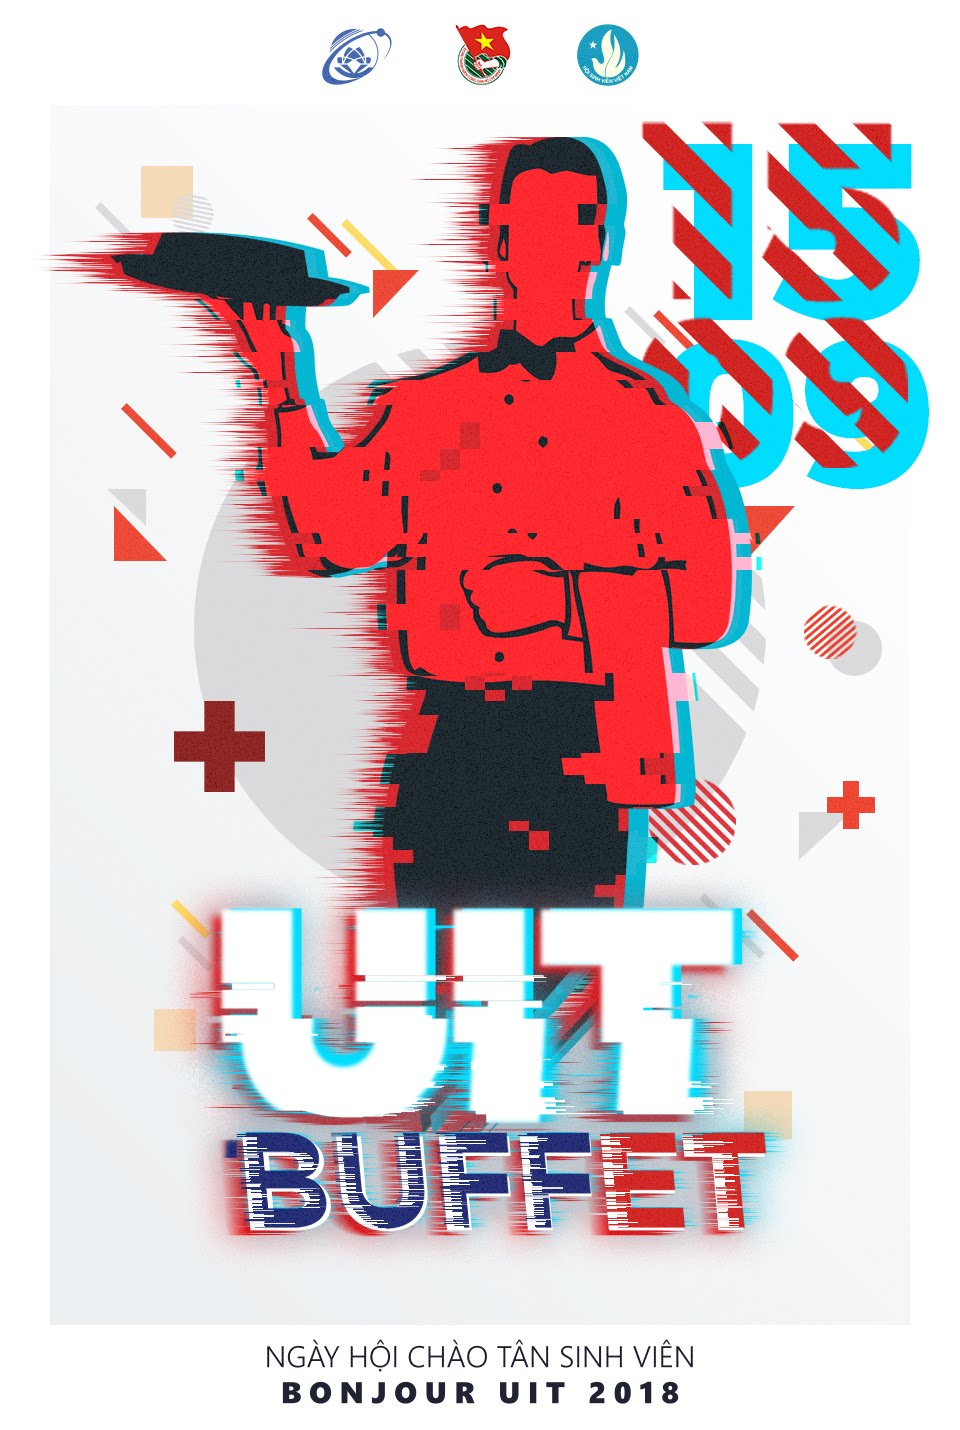
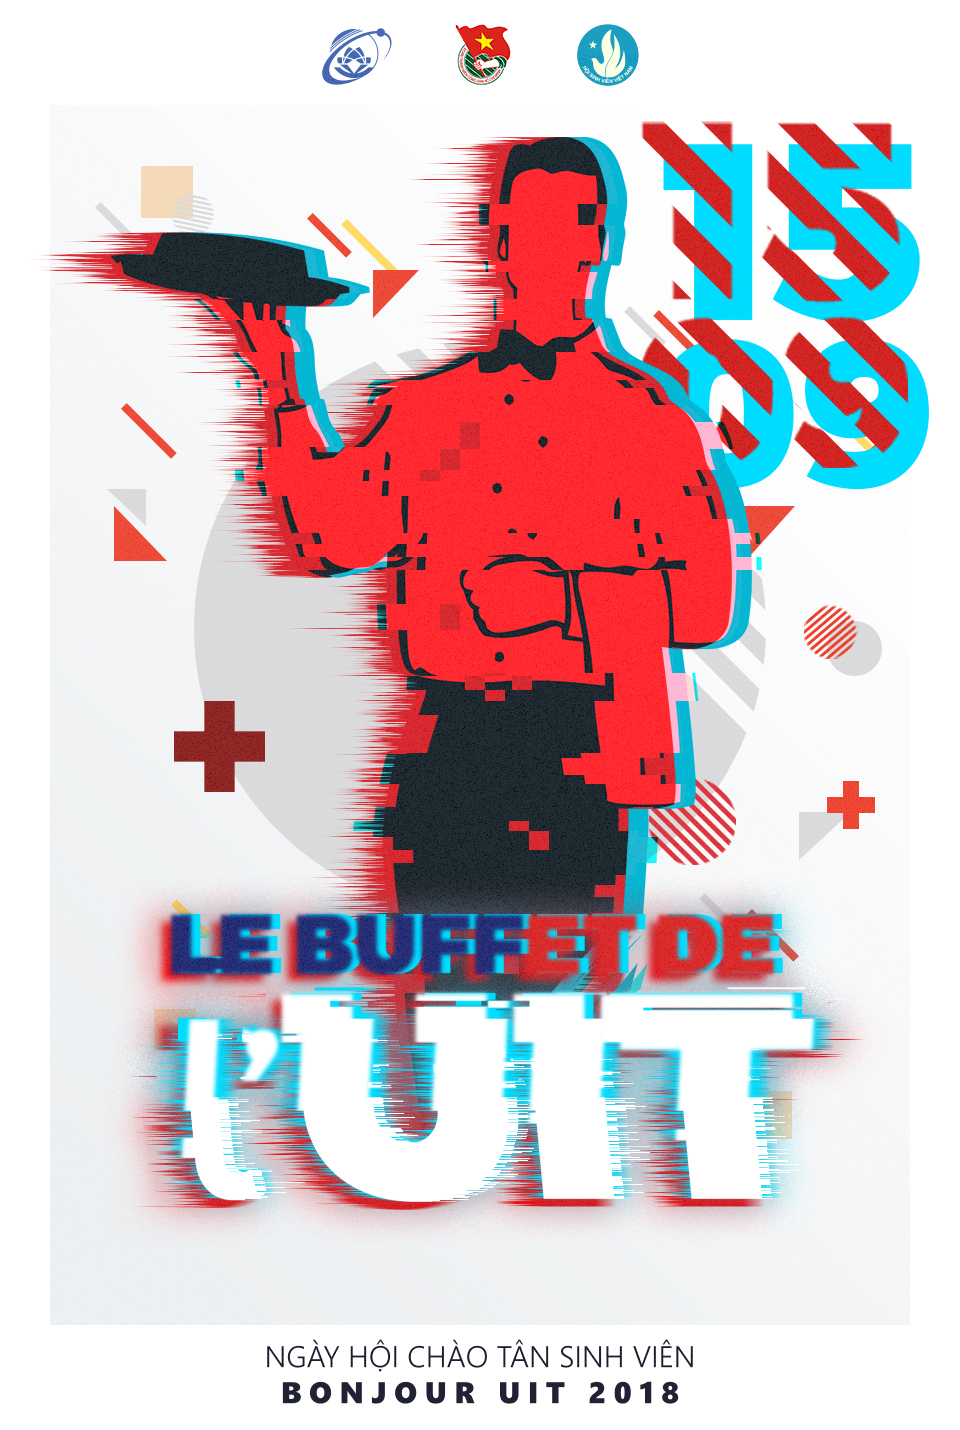
Update poster

diff --git a/bonjour2018.html b/bonjour2018.html
@@ -209,7 +209,7 @@
             <img src="./bonjour/images/bonjour-1.jpg" alt="" />
           </div>
           <div class="architecture-details bg-bonjour-blue text-left padding-fifteen sm-padding-eleven center-col md-width-90 xs-width-90">
-            <span class="text-large font-weight-600 letter-spacing-1 alt-font white-text text-uppercase display-block">UIT MUSIQUE FESTIVAL</span>
+            <span class="text-large font-weight-600 letter-spacing-1 alt-font white-text text-uppercase display-block">FÊTE MUSICALE DE L'UIT</span>
             <span class="text-small letter-spacing-2 text-uppercase alt-font white-text">Đại nhạc hội dành riêng cho các tính đồ âm nhạc tại UIT</span>
             <p class="white-text margin-fifteen no-margin-lr width-90 md-margin-three md-no-margin-lr">
               Mang chảo, mang bàn phím cùng nhau quẩy một trận ra trò nào 500 anh em ơi!
@@ -234,7 +234,7 @@
           </div>
           <div class="architecture-details bg-bonjour-blue text-left padding-fifteen sm-padding-eleven center-col md-width-90 xs-width-90">
             <span class="text-large font-weight-600 letter-spacing-1 alt-font white-text text-uppercase display-block">
-              UIT BUFFET
+              LE BUFFET DE L'UIT
             </span>
             <span class="text-small letter-spacing-2 text-uppercase alt-font white-text">LỄ HỘI ẨM THỰC PHÁP</span>
             <p class="white-text margin-fifteen no-margin-lr width-90 md-margin-three md-no-margin-lr">
@@ -566,7 +566,7 @@
               <div class="pricing-features">
                 <ul>
                   <li>1 người</li>
-                  <li>FÊTE MUSICALE DE l'UIT</li>
+                  <li>FÊTE MUSICALE DE L'UIT</li>
                   <li>DJ CONCERT</li>
                 </ul>
               </div>
@@ -591,7 +591,7 @@
               <div class="pricing-features">
                 <ul>
                   <li>5 người</li>
-                  <li>FÊTE MUSICALE DE l'UIT</li>
+                  <li>FÊTE MUSICALE DE L'UIT</li>
                   <li>TOUR DE FRANCE EN UIT</li>
                   <li>DJ CONCERT</li>
                 </ul>
@@ -617,7 +617,7 @@
               <div class="pricing-features">
                 <ul>
                   <li>1 người</li>
-                  <li>FÊTE MUSICALE DE l'UIT</li>
+                  <li>FÊTE MUSICALE DE L'UIT</li>
                   <li>TOUR DE FRANCE EN UIT</li>
                   <li>DJ CONCERT</li>
                 </ul>
@@ -643,7 +643,7 @@
               <div class="pricing-features">
                 <ul>
                   <li>1 người</li>
-                  <li>FÊTE MUSICALE DE l'UIT</li>
+                  <li>FÊTE MUSICALE DE L'UIT</li>
                   <li>LE BUFFET DE L'UIT</li>
                   <li>DJ CONCERT</li>
                 </ul>
